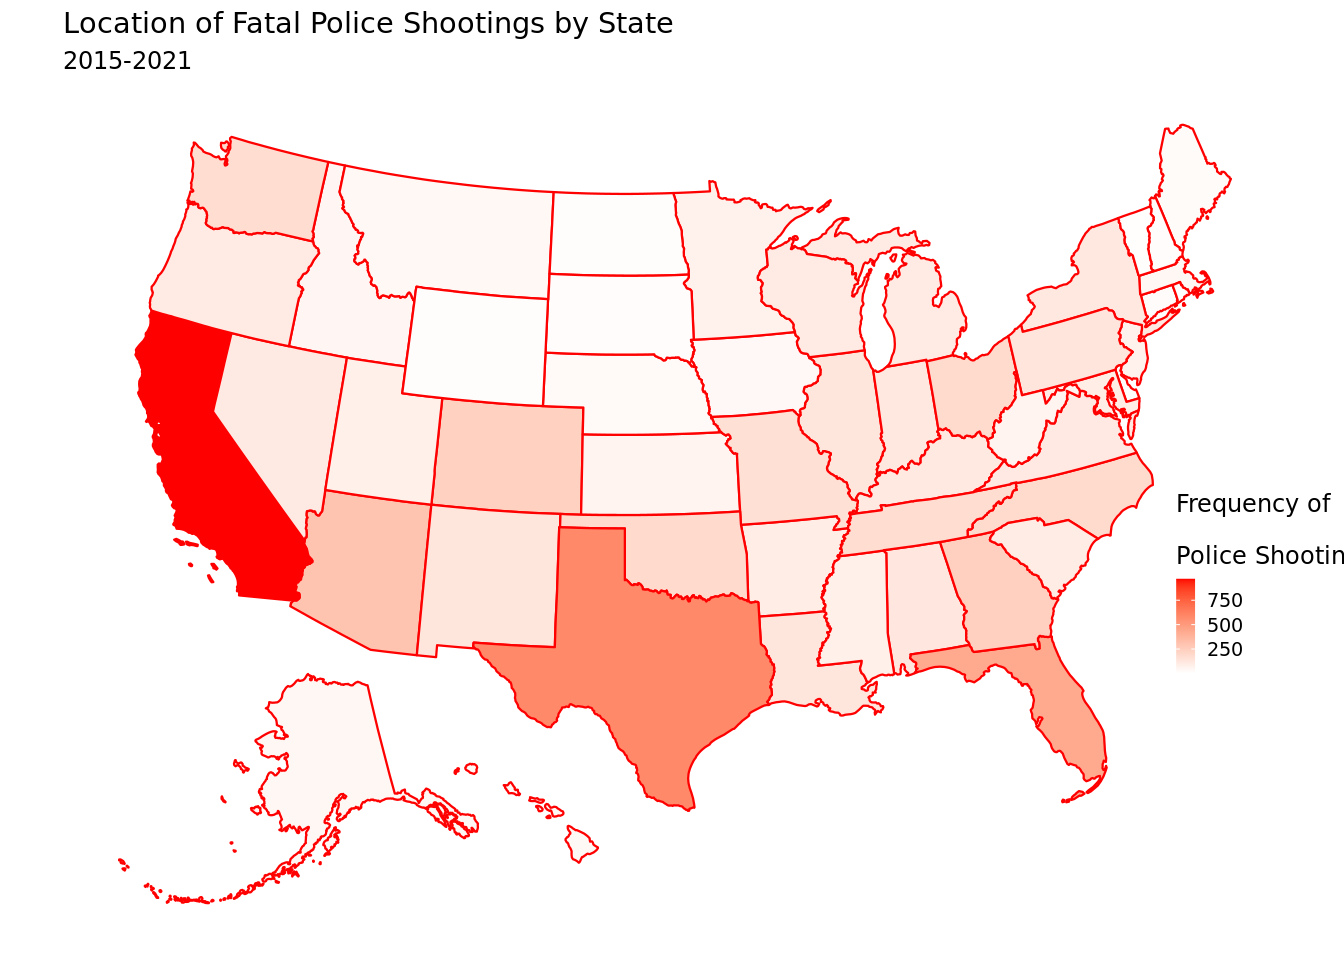
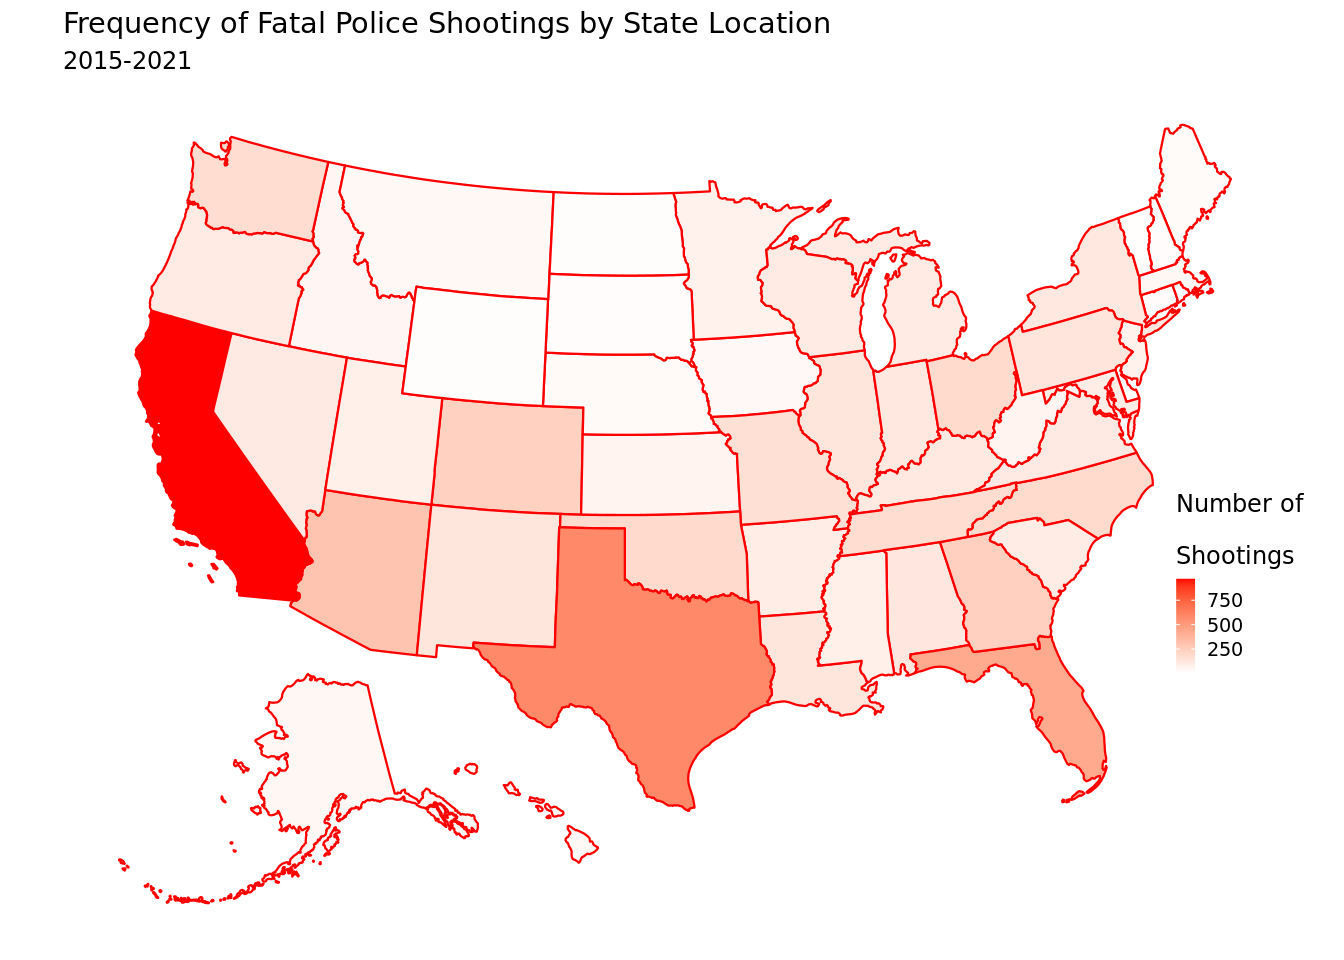
Updated methodology section and typos

Changed region(s): [[0.0625, 0.0, 0.625, 0.0625], [0.875, 0.5625, 1.0, 0.5938], [0.875, 0.5, 1.0, 0.5312]]

diff --git a/docs/report.html b/docs/report.html
@@ -123,44 +123,17 @@ ul.task-list li input[type="checkbox"] {
 </header>
 
 <div class="cell">
-<div class="cell-output cell-output-stderr">
-<pre><code>── Attaching packages ─────────────────────────────────────── tidyverse 1.3.2 ──
-✔ ggplot2 3.4.0      ✔ purrr   1.0.0 
-✔ tibble  3.1.8      ✔ dplyr   1.0.10
-✔ tidyr   1.2.1      ✔ stringr 1.5.0 
-✔ readr   2.1.3      ✔ forcats 0.5.2 
-── Conflicts ────────────────────────────────────────── tidyverse_conflicts() ──
-✖ dplyr::filter() masks stats::filter()
-✖ dplyr::lag()    masks stats::lag()
-── Attaching packages ────────────────────────────────────── tidymodels 1.0.0 ──
 
-✔ broom        1.0.2     ✔ rsample      1.1.1
-✔ dials        1.1.0     ✔ tune         1.0.1
-✔ infer        1.0.4     ✔ workflows    1.1.2
-✔ modeldata    1.0.1     ✔ workflowsets 1.0.0
-✔ parsnip      1.0.3     ✔ yardstick    1.1.0
-✔ recipes      1.0.3     
-
-── Conflicts ───────────────────────────────────────── tidymodels_conflicts() ──
-✖ scales::discard() masks purrr::discard()
-✖ dplyr::filter()   masks stats::filter()
-✖ recipes::fixed()  masks stringr::fixed()
-✖ dplyr::lag()      masks stats::lag()
-✖ yardstick::spec() masks readr::spec()
-✖ recipes::step()   masks stats::step()
-• Use tidymodels_prefer() to resolve common conflicts.
-
-Rows: 6569 Columns: 16
-── Column specification ────────────────────────────────────────────────────────
-Delimiter: ","
-chr  (9): Person.Name, Person.Gender, Person.Race, Incident.Location.City, I...
-dbl  (4): Person.Age, Incident.Date.Month, Incident.Date.Day, Incident.Date....
-lgl  (2): Factors.Mental-Illness, Shooting.Body-Camera
-date (1): Incident.Date.Full
-
-ℹ Use `spec()` to retrieve the full column specification for this data.
-ℹ Specify the column types or set `show_col_types = FALSE` to quiet this message.</code></pre>
 </div>
+<p><strong>Introduction</strong></p>
+<p>Created on September 15, 2021, the <code>police_shootings</code> data set is sourced from the CORGIS Dataset Project and was compiled from findings by <em>The Washington Post</em>. <em>The Washington Post</em> regularly collects this data as police shootings happen by monitoring local news reports, law enforcement websites, social media, and other independent databases such as Killed by Police and Fatal Encounters. When necessary, <em>The Post</em> also did additional research to investigate each individual case.</p>
+<p>This data set describes fatal shootings by a police officer in the line of duty in the United States from January 1, 2015, to September 11, 2021. Each observation represents a single fatal shooting event by a police officer. This data includes information on the victim’s gender, race, mental illness, location, and date of the event.</p>
+<p>In a <a href="https://www.nature.com/articles/d41586-019-02601-9"><em>Nature</em> article</a> titled “What the data say about police shootings,” Lynne Peeples explains that police officers in the United States fatally shoot roughly three people per day — a statistic that rivals the yearly totals of other comparable nations. Data on these tragic encounters is often limited, but in recent years newspapers, enterprising individuals, and the federal government have launched ambitious data-collection projects to fill the gaps and improve transparency and accountability over how police officers exercise their right to use deadly force. Researchers have posed many pressing questions, including whether the police are disproportionately quick to shoot Black and other minority civilians. That said, further exploration and analysis is desperately needed to brings awareness to implicit biases entrenched in the US police force and may suggest ways to build a better future for all citizens.</p>
+<p><strong>Research question</strong></p>
+<p>How do race, gender, age, and whether a civilian was armed or not affect the perceived threat level of a victim in fatal police shootings across the United States from 2015 to 2021?</p>
+<p><strong>Data</strong></p>
+<p>Our data set includes 6569 rows (observations), indicating that at least 6569 known people were killed by police from 2015 to 2021. By investigating how different factors affect the number of shootings across demographic groups, we can begin to understand why these tragedies happen and what we can do to stop them from happening going forward. Specifically, our research topic examines police shooting history on the basis of race, gender, and age. We hypothesize that male individuals who identify as a POC are more likely to be perceived as a threat by police during fatal shootings.</p>
+<div class="cell">
 <div class="cell-output cell-output-stdout">
 <pre><code>Rows: 6,569
 Columns: 16
@@ -182,23 +155,15 @@ $ Shooting.Manner          &lt;chr&gt; "shot", "shot", "shot and Tasered", "shot
 $ `Shooting.Body-Camera`   &lt;lgl&gt; TRUE, TRUE, TRUE, TRUE, TRUE, TRUE, TRUE, TRU…</code></pre>
 </div>
 </div>
-<p><strong>Introduction</strong></p>
-<p>Created on September 15, 2021, the <code>police_shootings</code> data set is sourced from the CORGIS Dataset Project and was compiled from findings by <em>The Washington Post</em>. <em>The Washington Post</em> regularly collects this data as police shootings happen by monitoring local news reports, law enforcement websites, social media, and other independent databases such as Killed by Police and Fatal Encounters. When necessary, <em>The Post</em> also did additional research to investigate each individual case.</p>
-<p>This data set describes fatal shootings by a police officer in the line of duty in the United States from January 1, 2015, to September 11, 2021. Each observation represents a single fatal shooting event by a police officer. This data includes information on the victim’s gender, race, mental illness, location, and date of the event.</p>
-<p>In a <a href="https://www.nature.com/articles/d41586-019-02601-9"><em>Nature</em> article</a> titled “What the data say about police shootings,” Lynne Peeples explains that police officers in the United States fatally shoot roughly three people per day — a statistic that rivals the yearly totals of other comparable nations. Data on these tragic encounters is often limited, but in recent years newspapers, enterprising individuals, and the federal government have launched ambitious data-collection projects to fill the gaps and improve transparency and accountability over how police officers exercise their right to use deadly force. Researchers have posed many pressing questions, including whether the police are disproportionately quick to shoot Black and other minority civilians. That said, further exploration and analysis is desperately needed to brings awareness to implicit biases entrenched in the US police force and may suggest ways to build a better future for all citizens.</p>
-<p><strong>Research question</strong></p>
-<p>How do race, gender, age, and whether a civilian was armed or not affect the perceived threat level of a victim in fatal police shootings across the United States from 2015 to 2021?</p>
-<p><strong>Data</strong></p>
-<p>Our data set includes 6569 rows (observations), indicating that at least 6569 known people were killed by police from 2015 to 2021. By investigating how different factors affect the number of shootings across demographic groups, we can begin to understand why these tragedies happen and what we can do to stop them from happening going forward. Specifically, our research topic examines police shooting history on the basis of race, gender, and age. We hypothesize that male individuals who identify as a POC are more likely to be perceived as a threat by police during fatal shootings.</p>
 <p><strong>Ethical Concerns</strong></p>
-<p>One ethical concern is the possibility of misinformation in the data and a lack of accurate reporting. Not every police shooting is reported or handled correctly. Although <em>The Washington Post</em> collected the data from many different sources, there is no way of guaranteeing that the data set is fully comprehensive.</p>
-<p>Second, as demonstrated below, all 6,569 victims identified in this data set have been characterized as having a mental illness. As a result, we decide not to make a visualization based on the mental illness variable. We believe this would pose an ethical issue because mental health is a spectrum with varying characteristics and severity of impact. Having a mental illness cannot be reduced to a simple “TRUE” or “FALSE.” Instead, we decided that other variables would be a better focus.</p>
+<p>One ethical concern is the possibility of misinformation in the data and a lack of accurate reporting. Not every police shooting is reported or handled correctly. Although <em>The Washington Post</em> compiled the data from many different sources, this report has no way of verify that the data set is fully comprehensive of every fatal police shooting in the United States.</p>
+<p>Second, as demonstrated below, all 6569 victims identified in this data set have been labeled as having a mental illness. As a result, we decide not to make a visualization based on the mental illness variable. Our team believes that mental health is a spectrum with varying characteristics and severity of impact and that reducing mental illness to a simple “TRUE” or “FALSE” characterization would be unethical. Instead, we will focus our report on other variables.</p>
 <div class="cell">
 <div class="cell-output cell-output-stdout">
 <pre><code>[1] 6569</code></pre>
 </div>
 </div>
-<p>Finally, a third concern is consent and whether the victims families want their loved ones to have identifying information (like name and information about their death) in a public database. This is a highly sensitive topic and should be treated as such.</p>
+<p>Finally, a third ethical concern is consent and whether the victims’ families want their loved ones to have identifying information (like name and details about their death) in a public database. This is a highly sensitive topic and our team seeks to treat it as such.</p>
 <p>For the purposes of this project, we will assume that the following data was collected randomly and that observations are independent.</p>
 <p>We have identified several key variables that will advance our research question:</p>
 <p><code>Person.Age</code> - An integer value of the victim’s age</p>
@@ -206,9 +171,9 @@ $ `Shooting.Body-Camera`   &lt;lgl&gt; TRUE, TRUE, TRUE, TRUE, TRUE, TRUE, TRUE,
 <p><code>Person.Race</code> - The victim’s identified race</p>
 <p><code>Incident.Location.State</code> - The state in which the shooting incident happened</p>
 <p><code>Factors.Armed</code> - Indicates whether the victim was armed</p>
-<p><code>Factors.Threat-Level</code> - The level of threat that the victim was perceived by the police (laveled as “attack”, “undetermined”, “other”, or “unknown”)</p>
+<p><code>Factors.Threat-Level</code> - The preceived level of threat of the victim according to police (classified as either “attack”, “undetermined”, “other”, or “unknown”)</p>
 <p><strong>Methodology</strong></p>
-<p>The average age for a police shooting victim is 35; whereas, the median age is 34. We can conclude that the data is not central to 34-35 years of age as the standard deviation of the the victim’s age is ~15 years.</p>
+<p>First, our research team conducted exploratory data analyses based on summary statistics. We found that the average age and media age for a police shooting victim in this data set are 35 years old and 34 years old, respectively. Moreover, the standard deviation of the victim’s age is roughly 15 years, indicating that this data set represents a broad sampling of fatal police shootings across age groups.</p>
 <div class="cell">
 <div class="cell-output cell-output-stdout">
 <pre><code># A tibble: 1 × 3
@@ -218,36 +183,12 @@ $ `Shooting.Body-Camera`   &lt;lgl&gt; TRUE, TRUE, TRUE, TRUE, TRUE, TRUE, TRUE,
 </div>
 </div>
 <div class="cell">
-<div class="cell-output cell-output-stdout">
-<pre><code># A tibble: 6,569 × 17
-   Person.N…¹ Perso…² Perso…³ Perso…⁴ Incid…⁵ Incid…⁶ Incid…⁷ Incident…⁸ Incid…⁹
-   &lt;chr&gt;        &lt;dbl&gt; &lt;chr&gt;   &lt;chr&gt;     &lt;dbl&gt;   &lt;dbl&gt;   &lt;dbl&gt; &lt;date&gt;     &lt;chr&gt;  
- 1 Tim Elliot      53 Male    Asian         1       2    2015 2015-01-02 Shelton
- 2 Lewis Lee…      47 Male    White         1       2    2015 2015-01-02 Aloha  
- 3 John Paul…      23 Male    Hispan…       1       3    2015 2015-01-03 Wichita
- 4 Matthew H…      32 Male    White         1       4    2015 2015-01-04 San Fr…
- 5 Michael R…      39 Male    Hispan…       1       4    2015 2015-01-04 Evans  
- 6 Kenneth J…      18 Male    White         1       4    2015 2015-01-04 Guthrie
- 7 Kenneth A…      22 Male    Hispan…       1       5    2015 2015-01-05 Chandl…
- 8 Brock Nic…      35 Male    White         1       6    2015 2015-01-06 Assaria
- 9 Autumn St…      34 Female  White         1       6    2015 2015-01-06 Burlin…
-10 Leslie Sa…      47 Male    Africa…       1       6    2015 2015-01-06 Knoxvi…
-# … with 6,559 more rows, 8 more variables: Incident.Location.State &lt;chr&gt;,
-#   Factors.Armed &lt;chr&gt;, `Factors.Mental-Illness` &lt;lgl&gt;,
-#   `Factors.Threat-Level` &lt;chr&gt;, Factors.Fleeing &lt;chr&gt;, Shooting.Manner &lt;chr&gt;,
-#   `Shooting.Body-Camera` &lt;lgl&gt;, state &lt;chr&gt;, and abbreviated variable names
-#   ¹Person.Name, ²Person.Age, ³Person.Gender, ⁴Person.Race,
-#   ⁵Incident.Date.Month, ⁶Incident.Date.Day, ⁷Incident.Date.Year,
-#   ⁸Incident.Date.Full, ⁹Incident.Location.City</code></pre>
-</div>
-</div>
-<div class="cell">
 <div class="cell-output-display">
 <p><img src="report_files/figure-html/usmap-shootings-1.png" class="img-fluid" width="672"></p>
 </div>
 </div>
-<p>As seen by the map, the majority of our data was collected in California. This could be a limitation to our data as it demonstartes biases.</p>
-<p>In yearly-analysis, we chose to do a line graph to represent the progression of shooting per day over time as it effectively reveals trends and changes in shooting per day across the years.</p>
+<p>As evidenced by the map above, the majority of our data was collected in California. This fact could limit our ability to generalize conclusions from our analysis, as California may be overrepresented.</p>
+<p>Next, we visualized the number of fatal police shootings per day across the seven years in our data set. We created a new variable <code>days_in_year</code> to that included the number of days in each year studied, accounting for leap years and the end of data collection in September 2021. Next, we chose to generate a line graph to represent the progression of shootings per day over time, as it effectively reveals trends and changes across the years. Overall, the daily shooting rates fluctuate between 2.45 and 2.8 shootings per day, with a slight dip in 2021 that may caused by the COVID-19 pandemic.</p>
 <div class="cell">
 <div class="cell-output cell-output-stderr">
 <pre><code>`geom_smooth()` using formula = 'y ~ x'</code></pre>
@@ -337,7 +278,7 @@ $ `Shooting.Body-Camera`   &lt;lgl&gt; TRUE, TRUE, TRUE, TRUE, TRUE, TRUE, TRUE,
 </div>
 </div>
 <p><strong>Results</strong></p>
-<p>Based on our summary statistics for the entire data set, we observed that the mean and median age of shooting victims is 35.4 and 34.0 years, respectively. Moreover, the standard deviation of this age range is 14.9 years, demonstrating the wide spread of data points included. We noticed a slight decrease in shooting per day in 2021 though the total range of average shootings per day was small and somewhat insignificant (from roughly 2.45 shootings to 2.8 shootings). When looking at the arms status of victims by gender, female victims were more likely to be armed than male victims. One reason for this is that male victims could have been seen as more aggressive and therefore more likely to become a victim no matter if they were armed. The age distribution of victims does not vary much between races. When we look at the different races in the count of total victims, we can see white victims and African American victims were most common. Close to 2962 of the victims were white; whereas, 1552 victims were black. If race had no impact on probability of being a victim, the proportions of victims by race would be similar as the US population by race. White Americans represent 0.578 of the population. African Americans make up 0.121 of the population.</p>
+<p>Based on our summary statistics for the entire data set, we observed that the mean and median age of shooting victims are 35.4 and 34.0 years, respectively. Moreover, the standard deviation of this age range is 14.9 years, demonstrating the wide spread of data points included. We noticed a slight decrease in shootings per day in 2021 though the total range of average shootings per day was small and somewhat insignificant (from roughly 2.45 shootings to 2.8 shootings). When looking at the arms status of victims by gender, female victims were more likely to be armed than male victims. One reason for this is that male victims could have been seen as more aggressive and therefore more likely to become a victim no matter if they were armed. The age distribution of victims does not vary much between races. When we look at the different races in the count of total victims, we can see white victims and African American victims were most common. Close to 2962 of the victims were white; whereas, 1552 victims were black. If race had no impact on probability of being a victim, the proportions of victims by race would be similar as the US population by race. White Americans represent 0.578 of the population. African Americans make up 0.121 of the population.</p>
 <div class="cell">
 <div class="cell-output cell-output-stdout">
 <pre><code># A tibble: 7 × 2
@@ -362,7 +303,7 @@ $ `Shooting.Body-Camera`   &lt;lgl&gt; TRUE, TRUE, TRUE, TRUE, TRUE, TRUE, TRUE,
 <p>The race with the most unarmed victims was black and the race with the least unarmed victims was Native American. Visualization can provide ample information on implicit bias and how race impacts the police’s approaches to interactions with different races. We also found the median age is roughly 34 years old for males and 35 years old for females. Male victims differ by their outliers, as many male victims are over the age of 75. The unknown victims appear to be significantly younger as seen by the median of ~21 years old.</p>
 <p>We performed a hypothesis test to determine whether the proportion of people perceived as an “attack” threat level was different for victims of color versus white victims. Our hypothesis test yields a p-value of 0.995. Utilizing a significance level of 0.05, we fail to reject the null hypothesis that the proportion of people who were perceived as an “attack” by the police of those shot who identify as a POC is equal to the proportion of people who were perceived as an “attack” by the police of those shot who identify as white. As a p-value of 0.995 is greater than 0.05, we have weak evidence to support the alternative hypothesis that the proportion of people who were perceived as an “attack” by the police of those shot who identify as a POC is greater than the proportion of people who were perceived as an “attack” by the police of those shot who identify as white.</p>
 <p><strong>Discussion and Limitations</strong></p>
-<p>Our project allowed us to investigate how race, gender, age, and a civilian’s armed status affected perceived threat level in fatal police shootings across the US from 2015-2021. We hypothesized that male individuals who identify as a POC are perceived as an increased threat during fatal police shootings. Our statistical results do not support this hypothesis. After analyzing our data and results, we believe that our data is heavily impacted by bias and misconceptions, leading to unreliability in our results. Close to 2962 of the victims were white; whereas, 1552 victims were black. If race had no impact on probability of being a victim, the proportions of victims by race would be similar as the US population by race. White Americans represent 0.578 of the population. African Americans make up 0.121 of the population. White Americans represent 0.578 of the US population while they only represent 0.45 of the victims. African Americans make up 0.121 of the population while they present 0.236 of the victims.Therefore we can see that African American were targeted at a higher rate than white Americans. As seen by the map of fatal police shootings by state, the vast majority of shootings occurred in California. Therefore, the data is obviously includes location bias. This could affect our results as demographics change by state. Also, we believe that much of our data could be heavily impacted by bias, leading to unreliability. For example, every victim was labeled as mentally ill.&nbsp;This assumption created some concern for our team as we believed it was unlikely that every victim was mentally ill.&nbsp;Therefore, our results can support our specific data set but we do not believe that our results cannot be generalized upon a broader population beyond our sample. Further exploration can allow us to analyze the relationship between each state’s victims and demographics. By computing statistical analysis for each individual state and analyzing the perceived threat level, we can further our results and conclude how each state relates to our hypothesis. Also, with more data, we can analyze how socioeconomic levels relate to perceived threat level. This extra demographic will allow us to further our conclusion and visualize patterns between an individual’s socioeconomic level and their race, gender, age, and armed status. To better our analysis, we believe that more reliable and broad data would be beneficial to our results and validity. Because our data was collected by the Corgis database through the Washington Post, our data could be very biased and invalid. By collecting data directly through the US or state governments, we believe our analysis will be more thorough and valid.</p>
+<p>Our project allowed us to investigate how race, gender, age, and a civilian’s armed status affected perceived threat level in fatal police shootings across the US from 2015-2021. We hypothesized that male individuals who identify as a POC are perceived as an increased threat during fatal police shootings. Our statistical results do not support this hypothesis. After analyzing our data and results, we believe that our data is heavily impacted by bias and misconceptions, leading to unreliability in our results. Close to 2962 of the victims were white; whereas, 1552 victims were black. If race had no impact on probability of being a victim, the proportions of victims by race would be similar as the US population by race. White Americans represent 0.578 of the population. African Americans make up 0.121 of the population. White Americans represent 0.578 of the US population while they only represent 0.45 of the victims. African Americans make up 0.121 of the population while they present 0.236 of the victims.Therefore we can see that African American were targeted at a higher rate than white Americans. As seen by the map of fatal police shootings by state, the vast majority of shootings occurred in California. Therefore, the data is obviously includes location bias. This could affect our results as demographics change by state. Also, we believe that much of our data could be heavily impacted by bias, leading to unreliability. For example, every victim was labeled as mentally ill.&nbsp;This assumption created some concern for our team as we believed it was unlikely that every victim was mentally ill.&nbsp;Therefore, our results can support our specific data set but we do not believe that our results cannot be generalized upon a broader population beyond our sample. Further exploration can allow us to analyze the relationship between each state’s victims and demographics. By computing statistical analysis for each individual state and analyzing the perceived threat level, we can further our results and conclude how each state relates to our hypothesis. Also, with more data, we can analyze how socioeconomic levels relate to perceived threat level. This extra demographic will allow us to further our conclusion and visualize patterns between an individual’s socioeconomic level and their race, gender, age, and armed status. To better our analysis, we believe that more reliable and broad data would be beneficial to our results and validity. Because our data was collected by the CORGIS database through <em>The Washington Post</em>, our data could be very biased and invalid. By collecting data directly through the US or state governments, we believe our analysis will be more thorough and valid.</p>
 
 
 
